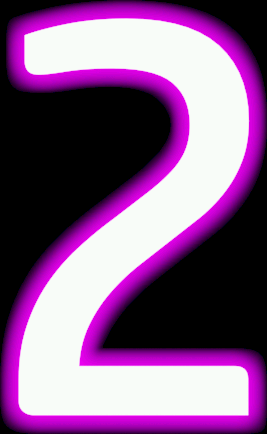
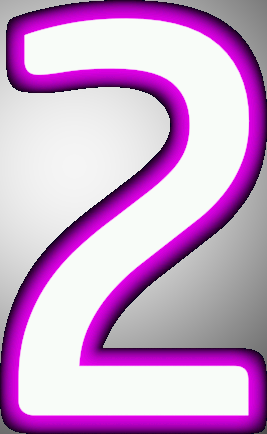
update textures, spawn finish line at each lap

diff --git a/src/ui.rs b/src/ui.rs
@@ -76,23 +76,25 @@ pub fn spawn_background(
         Background,
         LevelAssetMarker,
     ));
-    commands.spawn((
-        SpriteBundle {
-            texture: asset_server.load("1077.png"),
-            sprite: Sprite {
-                custom_size: Some(Vec2 { x: 64.0, y: height }),
-                anchor: bevy::sprite::Anchor::CenterLeft,
+    for n in 1..5 {
+        commands.spawn((
+            SpriteBundle {
+                texture: asset_server.load("1077.png"),
+                sprite: Sprite {
+                    custom_size: Some(Vec2 { x: 64.0, y: height }),
+                    anchor: bevy::sprite::Anchor::CenterLeft,
+                    ..default()
+                },
+                transform: Transform::from_xyz((n as f32) * width * 10.0, 0.0, 2.0),
                 ..default()
             },
-            transform: Transform::from_xyz(width * 10.0, 0.0, 2.0),
-            ..default()
-        },
-        ImageScaleMode::Tiled {
-            tile_x: true,
-            tile_y: true,
-            stretch_value: 1.0,
-        },
-    ));
+            ImageScaleMode::Tiled {
+                tile_x: true,
+                tile_y: true,
+                stretch_value: 1.0,
+            },
+        ));
+    }
 }
 
 pub fn update_background(
@@ -263,13 +265,13 @@ pub struct LapsDigit;
 
 pub fn update_laps(
     mut commands: Commands,
-    camera: Query<&Transform, With<CameraMarker>>,
+    car: Query<&Transform, With<Car>>,
     score: Res<Score>,
     window: Query<&Window>,
     prev_laps_digit: Query<Entity, With<LapsDigit>>,
 ) {
     let width = window.single().width();
-    let digit = camera.single().translation.x / (width) / 10.0;
+    let digit = car.single().translation.x / (width) / 10.0;
 
     for prev_digit in prev_laps_digit.iter() {
         commands.entity(prev_digit).despawn();
@@ -293,6 +295,7 @@ pub fn update_laps(
             ..Default::default()
         },
         LapsDigit,
+        LevelAssetMarker
     ));
 }
 

diff --git a/src/levels.rs b/src/levels.rs
@@ -22,6 +22,7 @@ pub struct LevelAssets {
     pub y_values: [f32; 4],
     pub background_texture: Handle<Image>,
     pub music: Handle<AudioSource>,
+    pub lap_texture: Handle<Image>,
 }
 
 pub fn game_over(
@@ -66,7 +67,7 @@ pub fn next_level(
     let width = window.single().width();
     let laps = (car.single().translation.x / (width) / 10.0) as u8;
 
-    if laps == 1 {
+    if laps == 5 {
         commands.spawn((
             TextBundle::from_section(
                 "SUCCESS",
@@ -87,7 +88,6 @@ pub fn next_level(
             MenuText,
         ));
         level.level += 1;
-        println!("Level: {}", level.level);
         next_state.set(GameState::Unloading);
     }
 }
@@ -143,6 +143,7 @@ pub fn load_level(
                 car_texture: asset_server.load("1084.png"),
                 background_texture: asset_server.load("1058.png"),
                 music: asset_server.load("240bps.mp3"),
+                lap_texture: asset_server.load("1077.png"),
             };
         }
         2 => {
@@ -163,6 +164,7 @@ pub fn load_level(
                 car_texture: asset_server.load("1145.png"),
                 background_texture: asset_server.load("backroads.png"),
                 music: asset_server.load("dui.mp3"),
+                lap_texture: asset_server.load("1077.png"),
             };
         }
         3 => {}

diff --git a/README.md b/README.md
@@ -2,7 +2,8 @@ Midnight Motorist (from FNAF 6) in Rust w/ Bevy Engine.
 
 # TODO
 - [X] Countdown animation 
-- [ ] Finish line animation
+- [ ] Lap animation
+- [ ] Next Level animation
 - [X] Loadscreen
 - [ ] Fix GitHub workflow/CI
 - [X] Respond to window size changes (or disable resize)
